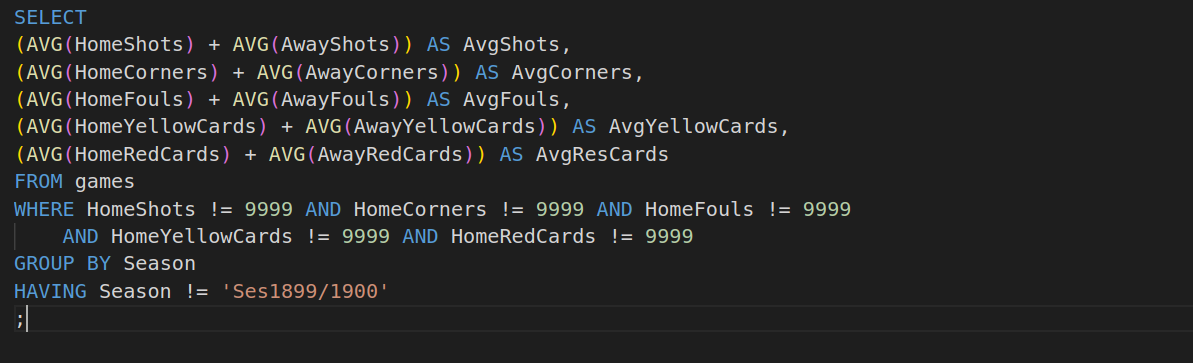
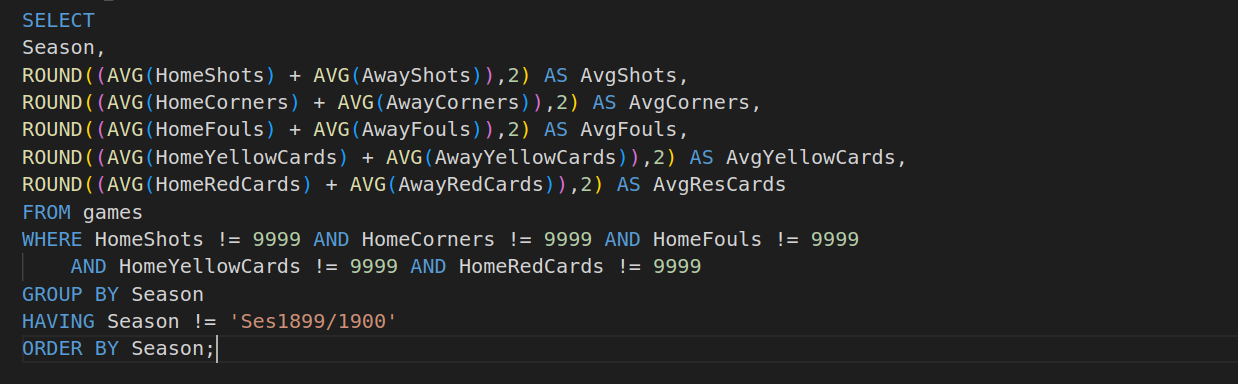
Feat: add files for task 11

Changed region(s): [[0.0, 0.0303, 0.7443, 0.9394]]

diff --git a/templates/flask.html b/templates/flask.html
@@ -2,7 +2,7 @@
 
 {% block content %}
 
-<h2 class="title">{% block title %} Create flask app and querys {% endblock %}</h2>
+<h2 class="title">{% block title %} Create flask app and queries {% endblock %}</h2>
 <br>
 
 <p>Page description about project.</p>
@@ -296,16 +296,32 @@
                 </div>
             </div>
             <div class="accordion-item">
-                <h2 class="accordion-header" id="headingThree">
+                <h2 class="accordion-header" id="headingEleven">
                     <button class="accordion-button collapsed" type="button" data-bs-toggle="collapse"
-                        data-bs-target="#collapseThree" aria-expanded="false" aria-controls="collapseThree">
+                        data-bs-target="#collapseEleven" aria-expanded="false" aria-controls="collapseEleven">
                         Task 11: Referee with the most of red cards.
                     </button>
                 </h2>
-                <div id="collapseThree" class="accordion-collapse collapse" aria-labelledby="headingThree"
+                <div id="collapseEleven" class="accordion-collapse collapse" aria-labelledby="headingEleven"
                     data-bs-parent="#accordionExample">
                     <div class="accordion-body">
-                        ...
+                        <img src="{{url_for('static', filename='./tasks/task_11_sql.png')}}" class="d-block w-100"
+                            alt="SQL code" width="300" height="300">
+                        <br>
+                        <table class="table table-hover table-secondary">
+                            <tr>
+                                {% for col in column_names11 %}
+                                <th>{{col}}</th>
+                                {% endfor %}
+                            </tr>
+                            {% for row in row_data11 %}
+                            <tr>
+                                {% for col, row_ in zip11(column_names11, row) %}
+                                <td>{{row_}}</td>
+                                {% endfor %}
+                            </tr>
+                            {% endfor %}
+                        </table>
                     </div>
                 </div>
             </div>

diff --git a/app.py b/app.py
@@ -68,6 +68,9 @@ def flask():
         sql_file_task10 = "./sql_files/task_10.sql"
         df_task10 = get_dataframe_from_sql(sql_file_task10)
         df_task10.columns = ['Name', 'YellowCards']
+        sql_file_task11 = "./sql_files/task_11.sql"
+        df_task11 = get_dataframe_from_sql(sql_file_task11)
+        df_task11.columns = ['Season', 'Name', 'RedCards']
     finally:
         return render_template('flask.html',
                                column_names1=df_task1.columns.values,
@@ -97,6 +100,9 @@ def flask():
                                column_names10=df_task10.columns.values,
                                row_data10=list(df_task10.values.tolist()),
                                zip10=zip,
+                               column_names11=df_task11.columns.values,
+                               row_data11=list(df_task11.values.tolist()),
+                               zip11=zip,
                                )
 
 
